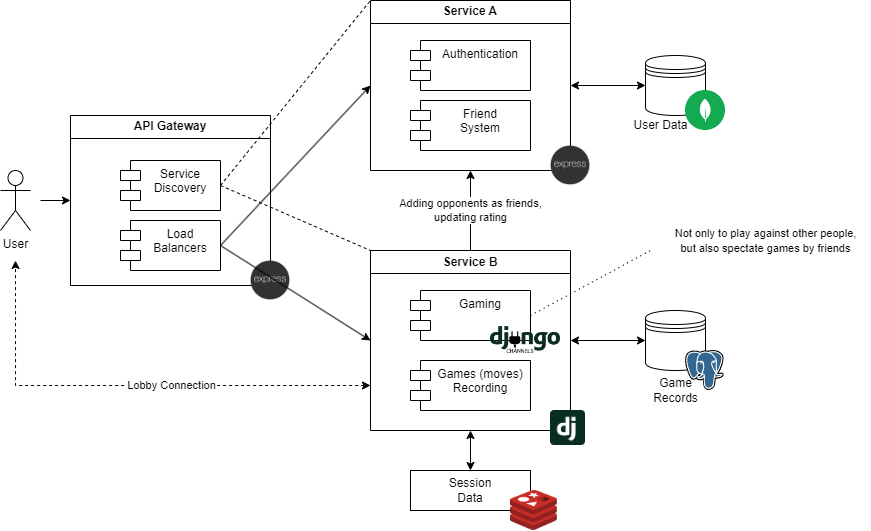
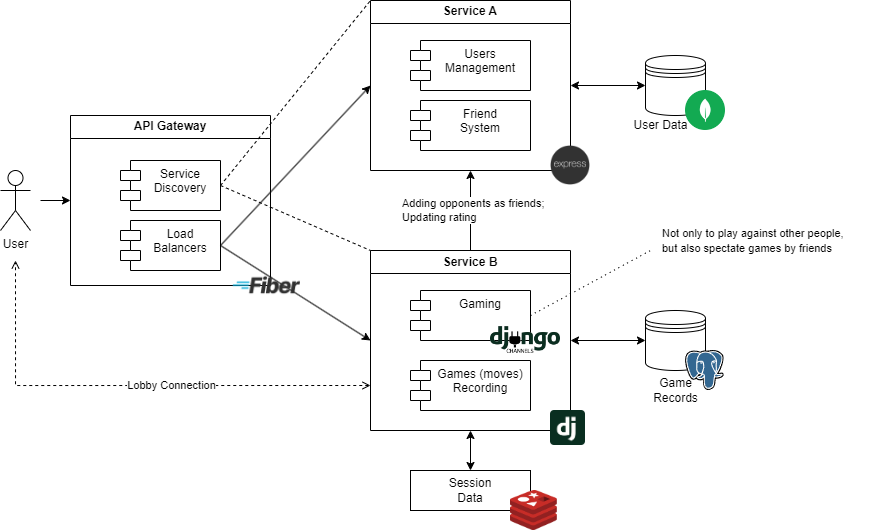
Update README.md, architecture.png

diff --git a/README.md b/README.md
@@ -8,12 +8,12 @@
 ### Service Boundaries
 ![Architecture](./architecture.png)
 * Service A handles everything regarding the **user data**: authentication, friend system, rating
-* Service B handles everything related to the **games played** on the website: lobbies (including spectators), moves recording
+* Service B handles everything related to the **games played** on the website: lobbies (including spectators), moves recording; also requests rating updates and new friend requests from A
 
 ### Technology Stack and Communication Patterns
-* Service A: **Express** + **MongoDB**
-* Service B: **Django** + **PostgreSQL** + **Dj Channels** (WS) + **Redis** (Channels storage)
-* API Gateway: Express
+* Service A (**JS**): **Express** + **MongoDB** (a common combination)
+* Service B (**Python**): **Django** + **PostgreSQL** (a common combination) + **Dj Channels** (WS) + **Redis** (Channels storage)
+* API Gateway (**Go**): **Fiber**
 * Inter-service communication: RESTful APIs
 
 ### Data Management Design
@@ -24,7 +24,7 @@
       /api/users/friends/search?uname= - searches users by username
       /api/users/friends/req/<int:id> - creates a friend request
       /api/users/friends/get - gets all existing friend requests
-      /api/users/friends/add/<int:id> - accepts a friend request
+      /api/users/friends/add?id=&accepted= - resolves a friend request
       /api/users/ratings/upd?id=&del= - updates user's rating
 
 * Service B endpoints:
@@ -34,7 +34,7 @@
       /api/records/get/<int:id> - get an actuall record by id
       /api/games/create - creates a new lobby
       /api/games/discover - gets a list of lobbies to join (filtered by rating)
-      wss://chess.md/api/games/wss/lobby/<int:id>/ - connect to a lobby
+      wss://.../api/games/wss/lobby/<int:id> - lobby consumer (removed on empty)
 
 ### Deployment & Scaling
-Usage of Docker, DCompose, Kubernetes, and stuff
+Usage of Docker, Docker Compose, Kubernetes, and stuff
